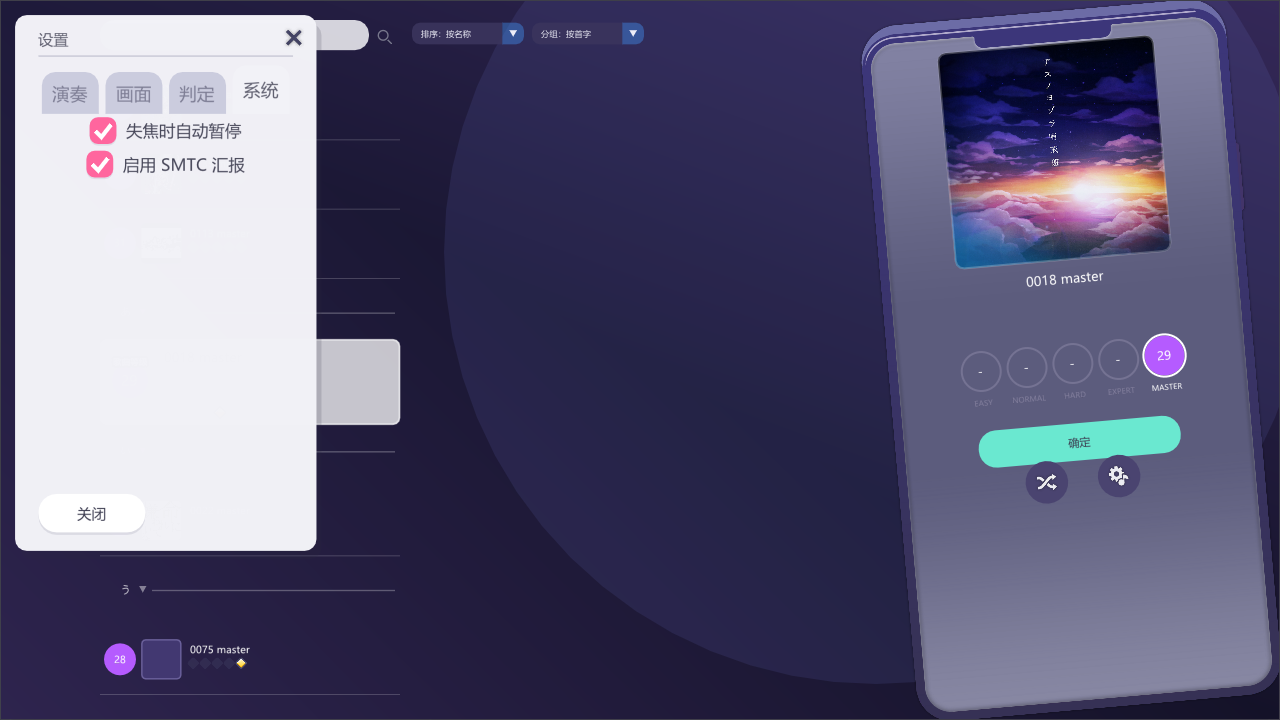
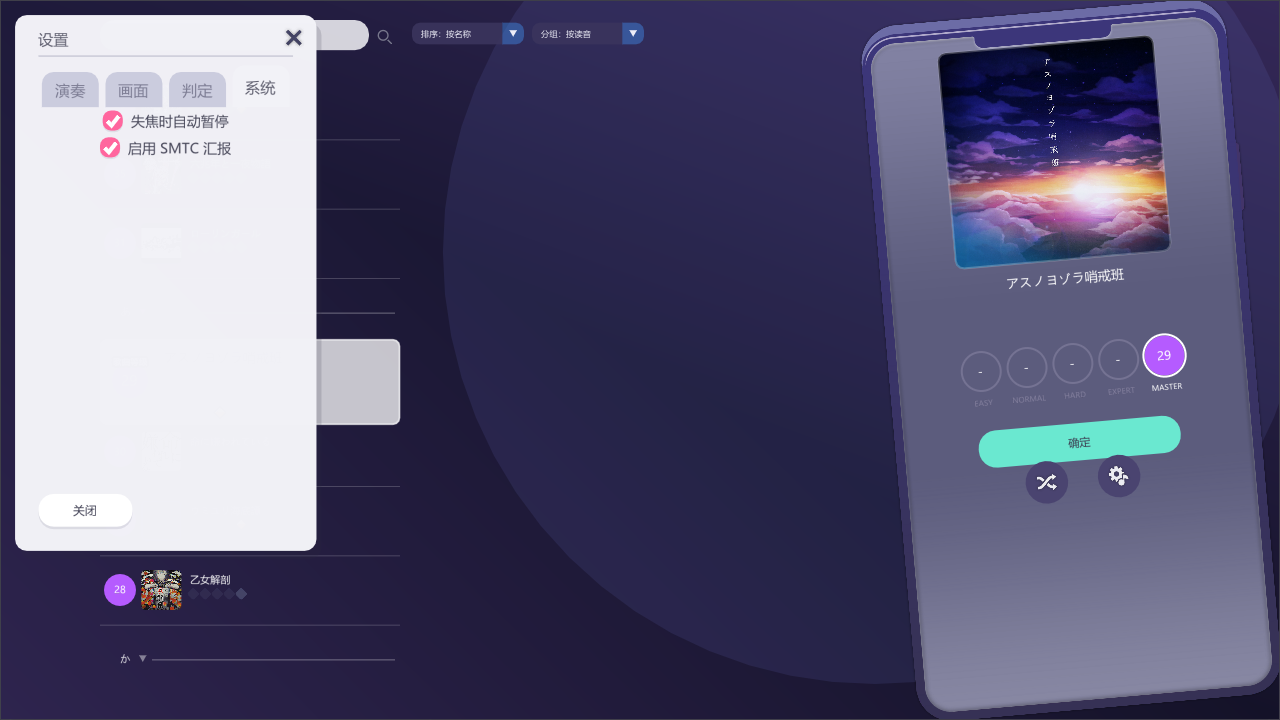
HUD 补上分数加号显示，UI 组件尺寸收小
- HUD：判定时在分数面板右侧画出浮动的 "+N"（上游 scorePlus 1:1 移植：
  0.5s 窗口、entry = progress/0.42、alpha 1.3*(1-0.9^(entry*12))、
  0.88 之后淡出、x 从 -32u 滑入、y 抬 -2u）。判定引擎记下每个音符的
  加分量与它的谱面时间（JudgementStats::lastScoreDelta / scoreDeltaAtSec，
  MISS/BAD 乘 0 所以不会冒 "+0"），HUD 只读这两个值，暂停时动画跟着停
- UI 尺寸：checkbox 32→24 框 / 26→22 字，slider 加减按钮 52→38、数值
  30→24、行高 72→64，页签字 28→24 页签高 58→50，胶囊按钮字号上限
  34→27、暂停弹窗按钮 160x0.72→146x0.62
- 设置卡片 640→700 高：组件变小后「画面」页正好放得下，不再被裁掉一行

diff --git a/game/Ui.cpp b/game/Ui.cpp
@@ -202,9 +202,9 @@ int tabBar(const char* id, const std::vector<std::string>& tabs, int* active, fl
     }
     ImDrawList* dl = ImGui::GetWindowDrawList();
     ImFont* font = game::bodyFont();
-    const float fontSize = 28.0f * s;
-    const float tabH = 58.0f * s;
-    const float radius = 16.0f * s;
+    const float fontSize = 24.0f * s;
+    const float tabH = 50.0f * s;
+    const float radius = 14.0f * s;
     const ImVec2 pos = ImGui::GetCursorScreenPos();
     const float rowW = rowWidth > 0.0f ? rowWidth : ImGui::GetContentRegionAvail().x;
     const float tabW = rowW / static_cast<float>(tabs.size());
@@ -248,12 +248,12 @@ bool slider(const char* id, float* value, float minV, float maxV, float step, co
     const float s = scale();
     ImDrawList* dl = ImGui::GetWindowDrawList();
     ImFont* font = game::bodyFont();
-    const float fontSize = 30.0f * s;
-    const float btnSize = 52.0f * s;
-    const float btnRadius = 14.0f * s;
-    const float trackH = 8.0f * s;
-    const float thumbR = 15.0f * s;
-    const float rowH = 72.0f * s; // value text + track row (was 96, then 80: cards shrank)
+    const float fontSize = 24.0f * s;
+    const float btnSize = 38.0f * s;
+    const float btnRadius = 10.0f * s;
+    const float trackH = 7.0f * s;
+    const float thumbR = 12.0f * s;
+    const float rowH = 64.0f * s; // value text + track row (was 96/80/72)
 
     const ImVec2 pos = ImGui::GetCursorScreenPos();
     const float rowW = width > 0.0f ? width : ImGui::GetContentRegionAvail().x;
@@ -261,8 +261,8 @@ bool slider(const char* id, float* value, float minV, float maxV, float step, co
     ImGui::PushID(id);
 
     const float trackY = pos.y + rowH * 0.68f;
-    const float trackX0 = pos.x + btnSize + 26.0f * s;
-    const float trackX1 = pos.x + rowW - btnSize - 26.0f * s;
+    const float trackX0 = pos.x + btnSize + 20.0f * s;
+    const float trackX1 = pos.x + rowW - btnSize - 20.0f * s;
     bool changed = false;
 
     // Value above the track, centered, in pink.
@@ -311,11 +311,11 @@ bool slider(const char* id, float* value, float minV, float maxV, float step, co
         const float c = btnSize * 0.5f;
         const float m = btnSize * 0.28f;
         const ImVec2 mid(lo.x + c, lo.y + c);
-        dl->AddRectFilled(ImVec2(mid.x - m, mid.y - 2.5f * s), ImVec2(mid.x + m, mid.y + 2.5f * s),
-            IM_COL32(255, 255, 255, 255), 2.0f * s);
+        dl->AddRectFilled(ImVec2(mid.x - m, mid.y - 2.0f * s), ImVec2(mid.x + m, mid.y + 2.0f * s),
+            IM_COL32(255, 255, 255, 255), 1.5f * s);
         if (label[0] == '+') {
-            dl->AddRectFilled(ImVec2(mid.x - 2.5f * s, mid.y - m), ImVec2(mid.x + 2.5f * s, mid.y + m),
-                IM_COL32(255, 255, 255, 255), 2.0f * s);
+            dl->AddRectFilled(ImVec2(mid.x - 2.0f * s, mid.y - m), ImVec2(mid.x + 2.0f * s, mid.y + m),
+                IM_COL32(255, 255, 255, 255), 1.5f * s);
         }
         return clicked;
     };
@@ -323,7 +323,7 @@ bool slider(const char* id, float* value, float minV, float maxV, float step, co
         *value = std::max(minV, *value - step);
         changed = true;
     }
-    if (darkButton("+", trackX1 + 26.0f * s)) {
+    if (darkButton("+", trackX1 + 20.0f * s)) {
         *value = std::min(maxV, *value + step);
         changed = true;
     }
@@ -390,7 +390,7 @@ bool capsuleButton(const char* label, const ImVec2& sizeIn, bool primary)
     dl->AddRectFilled(lo, hi, fill, radius);
 
     ImFont* font = game::bodyFont();
-    const float fontSize = std::min(34.0f * s, size.y * 0.5f);
+    const float fontSize = std::min(27.0f * s, size.y * 0.48f);
     const ImVec2 textSize = font->CalcTextSizeA(fontSize, FLT_MAX, 0.0f, label);
     dl->AddText(font, fontSize,
         ImVec2((lo.x + hi.x - textSize.x) * 0.5f, (lo.y + hi.y - textSize.y) * 0.5f), kBtnText, label);
@@ -429,9 +429,11 @@ bool checkBox(const char* label, bool* value, float rowWidth)
     const float s = scale();
     ImDrawList* dl = ImGui::GetWindowDrawList();
     ImFont* font = game::bodyFont();
-    const float fontSize = 26.0f * s;
-    const float boxSize = 32.0f * s;
-    const float gap = 12.0f * s;
+    // Sized against the settings card's 23px body text: a 32px box with a 26px
+    // label read as oversized next to the slider labels and the section rows.
+    const float fontSize = 22.0f * s;
+    const float boxSize = 24.0f * s;
+    const float gap = 10.0f * s;
     const ImVec2 textSize = font->CalcTextSizeA(fontSize, FLT_MAX, 0.0f, label);
     const float groupW = boxSize + gap + textSize.x;
 
@@ -571,13 +573,13 @@ int messageDialog(platform::Renderer& renderer, const char* id, const char* titl
     const ImVec2 display = ImGui::GetIO().DisplaySize;
     // Button geometry first: the card must be wide enough for the capsule row
     // (the 3-button pause dialog needs 524*s - a fixed 500*s card clipped it).
-    const float btnH = kCapsuleH * s * 0.72f;
-    const float btnW = 160.0f * s;
-    const float gap = 22.0f * s;
+    const float btnH = kCapsuleH * s * 0.62f;
+    const float btnW = 146.0f * s;
+    const float gap = 20.0f * s;
     const float buttonsW = static_cast<float>(buttons.size()) * btnW
         + (static_cast<float>(buttons.size()) - 1) * gap;
     const float cardW = std::max(500.0f * s, buttonsW + 56.0f * s);
-    const float cardH = 200.0f * s;
+    const float cardH = 184.0f * s;
     ImVec2 center = ImVec2(display.x * 0.5f, display.y * 0.5f);
     ImVec2 size = ImVec2(cardW, cardH);
 

diff --git a/game/Hud.cpp b/game/Hud.cpp
@@ -11,9 +11,22 @@ namespace
 {
     constexpr float SCORE_ROOT_SCALE = 1.5f;
 
+    // How long the floating "+N" stays next to the score panel (upstream
+    // SCORE_DELTA_VISIBLE_WINDOW_SEC).
+    constexpr float kScoreDeltaVisibleSec = 0.5f;
+
     constexpr float scoreX(float v) { return 36.0f + v * SCORE_ROOT_SCALE; }
     constexpr float scoreY(float v) { return -3.0f + v * SCORE_ROOT_SCALE; }
     constexpr float scoreS(float v) { return v * SCORE_ROOT_SCALE; }
+
+    // Sprite keys of one score digit; the plus sign ships as "plus"/"splus".
+    std::string scoreDigitKey(char ch, bool shadow)
+    {
+        if (ch == '+') {
+            return shadow ? "digit_splus" : "digit_plus";
+        }
+        return std::string(shadow ? "digit_s" : "digit_") + ch;
+    }
 
     std::string digitsOf(double value, int minSlots)
     {
@@ -132,6 +145,16 @@ void drawHud(platform::Renderer& renderer, const HudState& state, float songTime
             ImVec2(clipped, 1.0f),
             tint);
     };
+    // Width of a sprite drawn at `h` tall (virtual units), from its own aspect.
+    // Used by the "+N" glyphs, which are centred on a slot instead of being
+    // placed by their top-left corner.
+    auto spriteWidth = [&](const std::string& name, float h) {
+        const platform::Renderer::HudSprite* sprite = renderer.hud(name);
+        if (sprite == nullptr || sprite->height <= 0) {
+            return h;
+        }
+        return h * (static_cast<float>(sprite->width) / static_cast<float>(sprite->height));
+    };
 
     // ------------------------------------------------------------------
     // Intro: main.cpp owns the opening card + the playfield fade (see
@@ -201,6 +224,45 @@ void drawHud(platform::Renderer& renderer, const HudState& state, float songTime
             drawList->AddImage(reinterpret_cast<ImTextureID>(static_cast<std::uintptr_t>(main->id)),
                 ImVec2(centerX - mainW * 0.5f, py(slotY)),
                 ImVec2(centerX + mainW * 0.5f, py(slotY) + mainH));
+        }
+    }
+
+    // Floating "+N" beside the score panel: the score the last note paid,
+    // shown for 0.5s from that note's chart time, sliding in from the left and
+    // fading out at the end. 1:1 port of the upstream overlay's scorePlus block
+    // (alpha ramp 1.3*(1-0.9^(entry*12)), entry = progress/0.42, fade from
+    // progress 0.88, x slide -32u, y lift -2u).
+    const int plusValue = static_cast<int>(std::lround(std::max(0.0, state.scoreDelta)));
+    const float plusElapsed = songTimeSec - state.scoreDeltaAtSec;
+    if (plusValue > 0 && plusElapsed >= 0.0f && plusElapsed <= kScoreDeltaVisibleSec) {
+        const float progress = std::clamp(plusElapsed / kScoreDeltaVisibleSec, 0.0f, 1.0f);
+        const float entry = std::clamp(progress / 0.42f, 0.0f, 1.0f);
+        const float eased = 1.0f - std::pow(0.9f, entry * 12.0f);
+        constexpr float kFadeStart = 0.88f;
+        float alpha = std::min(1.0f, 1.3f * eased);
+        if (progress > kFadeStart) {
+            alpha *= std::max(0.0f, 1.0f - (progress - kFadeStart) / (1.0f - kFadeStart));
+        }
+        const float offsetX = -32.0f * (1.0f - eased);
+        const float offsetY = -2.0f * eased;
+        const std::string plusText = "+" + std::to_string(plusValue);
+        // Upstream keeps the cursor in HUD space from scoreX(290) on (the sign
+        // takes 7u, a digit 14u, plus a 4u gap after the sign).
+        float cursor = scoreX(290.0f);
+        const float plusCenterY = scoreY(74.0f + 11.0f) + offsetY * SCORE_ROOT_SCALE;
+        for (const char ch : plusText) {
+            const bool isSign = ch == '+';
+            const float slotW = scoreS(isSign ? 7.0f : 14.0f);
+            const float shadowH = scoreS(isSign ? 10.0f : 22.0f);
+            const float mainH = scoreS(isSign ? 8.0f : 18.0f);
+            const float centerX = cursor + offsetX * SCORE_ROOT_SCALE + slotW * 0.5f;
+            const float shadowW = spriteWidth(scoreDigitKey(ch, true), shadowH);
+            const float mainW = spriteWidth(scoreDigitKey(ch, false), mainH);
+            img(scoreDigitKey(ch, true), centerX - shadowW * 0.5f, plusCenterY - shadowH * 0.5f, shadowW,
+                shadowH, alpha);
+            img(scoreDigitKey(ch, false), centerX - mainW * 0.5f, plusCenterY - mainH * 0.5f, mainW, mainH,
+                alpha);
+            cursor += slotW + (isSign ? scoreS(4.0f) : 0.0f);
         }
     }
 

diff --git a/game/Judgement.cpp b/game/Judgement.cpp
@@ -184,7 +184,7 @@ double JudgementEngine::scoreDeltaFor(float kind, bool critical) const
     return (kTeamPower / mWeightedNoteCount) * 4.0 * static_cast<double>(weight) * levelFactor * mComboFactor;
 }
 
-Judge JudgementEngine::registerJudge(Judge judge, bool critical, float volume, float kind)
+Judge JudgementEngine::registerJudge(Judge judge, bool critical, float volume, float kind, float noteTimeSec)
 {
     (void)volume;
     switch (judge) {
@@ -223,7 +223,12 @@ Judge JudgementEngine::registerJudge(Judge judge, bool critical, float volume, f
         mStats.life = std::clamp(mStats.life + kLifeBad, 0.0f, kMaxLife);
     }
 
-    mStats.score += scoreDeltaFor(kind, critical) * judgeMultiplier(judge);
+    const double delta = scoreDeltaFor(kind, critical) * judgeMultiplier(judge);
+    mStats.score += delta;
+    // Drives the HUD "+N": the delta and the chart time of the note that paid
+    // it. A MISS / BAD multiplies by 0, so the HUD shows nothing for them.
+    mStats.lastScoreDelta = delta;
+    mStats.scoreDeltaAtSec = noteTimeSec;
     mStats.lastJudge = judge;
     mStats.lastJudgeCritical = critical;
     return judge;
@@ -329,7 +334,7 @@ HitNote* JudgementEngine::findCandidate(float lanePos, float songTimeSec, float 
     mStats.lastHitTimeSec = best->timeSec;
     mStats.lastHitFlickDir = noteFlickDir(*best);
     mStats.lastHitFriction = best->kind == 3.0f; // kind 3 = trace / friction
-    registerJudge(judge, critical, best->volume, best->kind);
+    registerJudge(judge, critical, best->volume, best->kind, best->timeSec);
     return best;
 }
 
@@ -373,7 +378,7 @@ void JudgementEngine::judgeHoldTail(ActiveHold& hold, Judge judge, float songTim
     mStats.lastHitTimeSec = tail.timeSec;
     mStats.lastHitFlickDir = noteFlickDir(tail);
     mStats.lastHitFriction = tail.kind == 3.0f;
-    registerJudge(judge, critical, tail.volume, tail.kind);
+    registerJudge(judge, critical, tail.volume, tail.kind, tail.timeSec);
     mStats.lastJudgeTimeSec = songTimeSec;
 }
 
@@ -445,7 +450,8 @@ void JudgementEngine::update(float songTimeSec)
             if (startState == 1 && !holdBroken) {
                 note.state = 1;
                 mHitEventIndices.push_back(static_cast<int>(i));
-                registerJudge(Judge::Perfect, (static_cast<int>(note.flags) & 1) != 0, note.volume, note.kind);
+                registerJudge(Judge::Perfect, (static_cast<int>(note.flags) & 1) != 0, note.volume, note.kind,
+                    note.timeSec);
                 mStats.lastJudgeTimeSec = songTimeSec;
                 // A tick is its own hit: report its own lane so the effect for
                 // the hold step plays there instead of re-using the previous
@@ -505,7 +511,8 @@ void JudgementEngine::update(float songTimeSec)
             if (covered) {
                 note.state = 1;
                 mHitEventIndices.push_back(static_cast<int>(i));
-                registerJudge(Judge::Perfect, (static_cast<int>(note.flags) & 1) != 0, note.volume, note.kind);
+                registerJudge(Judge::Perfect, (static_cast<int>(note.flags) & 1) != 0, note.volume, note.kind,
+                    note.timeSec);
                 mStats.lastJudgeTimeSec = songTimeSec;
                 mStats.lastHitKind = note.kind;
                 mStats.lastHitCenter = note.center;
@@ -523,7 +530,8 @@ void JudgementEngine::update(float songTimeSec)
             // score / combo machinery shows a flawless run without input.
             // Effects come from the core's own timeline in this mode.
             note.state = 1;
-            registerJudge(Judge::Perfect, (static_cast<int>(note.flags) & 1) != 0, note.volume, note.kind);
+            registerJudge(Judge::Perfect, (static_cast<int>(note.flags) & 1) != 0, note.volume, note.kind,
+                    note.timeSec);
             mStats.lastJudgeTimeSec = songTimeSec;
             mStats.lastHitKind = note.kind;
             mStats.lastHitCenter = note.center;

diff --git a/main.cpp b/main.cpp
@@ -1420,9 +1420,11 @@ int main(int argc, char** argv)
         // pjsk style settings panel (tabbed card, pjsk sliders).
         const float s = ui::scale();
         const ImVec2 display = ImGui::GetIO().DisplaySize;
-        // 640 tall (was 520): the 画面 tab grew a resolution combo and the
-        // progress-bar checkbox and no longer fit the shorter card.
-        ImVec2 cardSize = ImVec2(360.0f * s, 640.0f * s);
+        // 700 tall (was 520 -> 640 -> 700): the 画面 tab is the tallest one
+        // (resolution + window mode + fps slider + 4 checkboxes) and has to fit
+        // without scrolling; the tab content is still clipped by a child, so a
+        // future row can never run under the 关闭 button.
+        ImVec2 cardSize = ImVec2(360.0f * s, 700.0f * s);
         ImVec2 cardCenter = ImVec2(18.0f * s + cardSize.x * 0.5f, 18.0f * s + cardSize.y * 0.5f);
         const float interior = cardSize.x - 56.0f * s;
         const float padX = 28.0f * s;
@@ -1676,7 +1678,7 @@ int main(int argc, char** argv)
             ImGui::PopStyleColor(5);
             ImGui::SetCursorScreenPos(ImVec2(cardCenter.x - cardSize.x * 0.5f + padX,
                 cardCenter.y + cardSize.y * 0.5f - 68.0f * s));
-            if (ui::capsuleButton("关闭", ImVec2(150.0f * s, 54.0f * s), false)) {
+            if (ui::capsuleButton("关闭", ImVec2(132.0f * s, 46.0f * s), false)) {
                 showDebug = false;
             }
             ui::endCard();
@@ -2657,6 +2659,11 @@ int main(int argc, char** argv)
                 lastSeenJudgeTime = stats.lastJudgeTimeSec;
                 hudState.lastJudge = stats.lastJudge;
                 hudState.lastJudgeAtSec = stats.lastJudgeTimeSec;
+                // Floating "+N" beside the score panel: the delta this
+                // judgement paid, keyed to the note's own chart time so the
+                // animation freezes with the clock.
+                hudState.scoreDelta = stats.lastScoreDelta;
+                hudState.scoreDeltaAtSec = stats.scoreDeltaAtSec;
                 if (autoPlay) {
                     // Autoplay: burst effects come from the core's own
                     // timeline, but nothing else plays the hit SE (the input

diff --git a/game/Judgement.hpp b/game/Judgement.hpp
@@ -99,6 +99,12 @@ struct JudgementStats
     int combo = 0;
     int maxCombo = 0;
     double score = 0.0;
+    // Score gained by the most recent judgement, and the chart time of the
+    // note that produced it. The HUD prints it as the floating "+N" next to the
+    // score panel (upstream: HudSnapshot::scoreDelta + scorePlusTriggerSec).
+    // 0 for a MISS / BAD, which is what keeps the "+N" from showing up on them.
+    double lastScoreDelta = 0.0;
+    float scoreDeltaAtSec = -100.0f;
     float life = kMaxLife;
     int holdTails = 0;  // hold tails judged by releasing / holding through
     int holdBreaks = 0; // holds let go too early (mid-hold MISS)
@@ -237,7 +243,7 @@ class JudgementEngine
     double mWeightedNoteCount = 1.0;
     double mComboFactor = 1.0;
 
-    Judge registerJudge(Judge judge, bool critical, float volume, float kind);
+    Judge registerJudge(Judge judge, bool critical, float volume, float kind, float noteTimeSec);
     void registerMiss(float songTimeSec, float lifeCost);
     double scoreDeltaFor(float kind, bool critical) const;
     void judgeHoldTail(ActiveHold& hold, Judge judge, float songTimeSec);

diff --git a/game/Hud.hpp b/game/Hud.hpp
@@ -22,6 +22,11 @@ struct HudState
     // with the upstream score formula (see game/Judgement.hpp).
     char rank = 'd';
     float scoreBarRatio = 0.0f;
+    // Floating "+N" next to the score panel: the score the last judgement paid
+    // and the chart time of that note (the animation runs for
+    // kScoreDeltaVisibleSec from there). 0 = nothing to show.
+    double scoreDelta = 0.0;
+    float scoreDeltaAtSec = -100.0f;
     game::Judge lastJudge = game::Judge::None;
     float lastJudgeAtSec = -100.0f;
     float lifeRatio = 1.0f;
